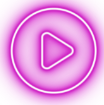
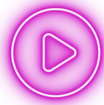
Push base structure

diff --git a/src/apps/HomePage/HomePage.js b/src/apps/HomePage/HomePage.js
@@ -11,11 +11,24 @@ import { Provider } from "react-redux";
 import IconButton from "@material-ui/core/IconButton";
 import PlayCircleOutlineIcon from '@mui/icons-material/PlayCircleOutline';
 import BackgroundImage from '../../img/backgroundimg.png';
-import BckgroundImage from '../../img/playbutton.png';
+import PlayButton from '../../img/playbutton.png';
+import PlayButtonHover from '../../img/playbuttonhover.png';
 
 const store = configureStore();
 
 const HomePage = () => {
+
+  const onPlay = () => { window.location.pathname = `/menu`; };
+
+  const [isHovering, setIsHovering] = useState(false);
+
+  const handleMouseOver = () => {
+    setIsHovering(true);
+  };
+
+  const handleMouseOut = () => {
+    setIsHovering(false);
+  };
 
   const theme = createMuiTheme({
     typography: {
@@ -35,7 +48,10 @@ const HomePage = () => {
     <Provider store={store}>
       <ThemeProvider theme={theme}>
         <Box style={{ backgroundImage: `url(${BackgroundImage})`, backgroundSize: "cover", height: "100vh", color: "#f5f5f5", display: "flex", justifyContent: "flex-end", alignItems: "flex-end" }}>
-          <img src={BckgroundImage} alt="play icon" height={105} width={104} />
+        <div onMouseOver={handleMouseOver} onMouseOut={handleMouseOut} onClick={onPlay} >
+          {!isHovering && ( <div> <img src={PlayButton} alt="play icon" height={105} width={104} /> </div> )}
+          {isHovering && ( <div> <img src={PlayButtonHover} alt="play icon hover" height={105} width={104} /> </div> )}
+        </div>
         </Box>
       </ThemeProvider>
     </Provider>

diff --git a/src/apps/MenuPage/MenuPage.js b/src/apps/MenuPage/MenuPage.js
@@ -7,9 +7,8 @@ import {
   ThemeProvider
 } from "@material-ui/core";
 import { Provider } from "react-redux";
-import IconButton from "@material-ui/core/IconButton";
-import PlayCircleOutlineIcon from '@mui/icons-material/PlayCircleOutline';
-import BackgroundImage from '../../img/backgroundimg.png';
+import BackgroundImage from '../../img/back.png';
+import ChooseMode from '../../img/choosemode.png';
 
 const store = configureStore();
 
@@ -32,10 +31,10 @@ const MenuPage = () => {
   return (
     <Provider store={store}>
       <ThemeProvider theme={theme}>
-        <Box style={{ backgroundImage: `url(${BackgroundImage})`, backgroundSize: "cover", height: "100vh", color: "#f5f5f5", display: "flex", justifyContent: "flex-end", alignItems: "flex-end" }}>
-          <IconButton aria-label="play icon" size="large" color="secondary">
-            <PlayCircleOutlineIcon />
-          </IconButton>
+        <Box style={{ backgroundImage: `url(${BackgroundImage})`, backgroundSize: "cover", height: "100vh", color: "#f5f5f5", display: 'flex', alignItems: 'center', justifyContent: 'center'}}>
+          <div>
+            <img style={{ width: "100%", height: "100%" }} src={ChooseMode} alt="choosemode" />
+          </div>
         </Box>
       </ThemeProvider>
     </Provider>
